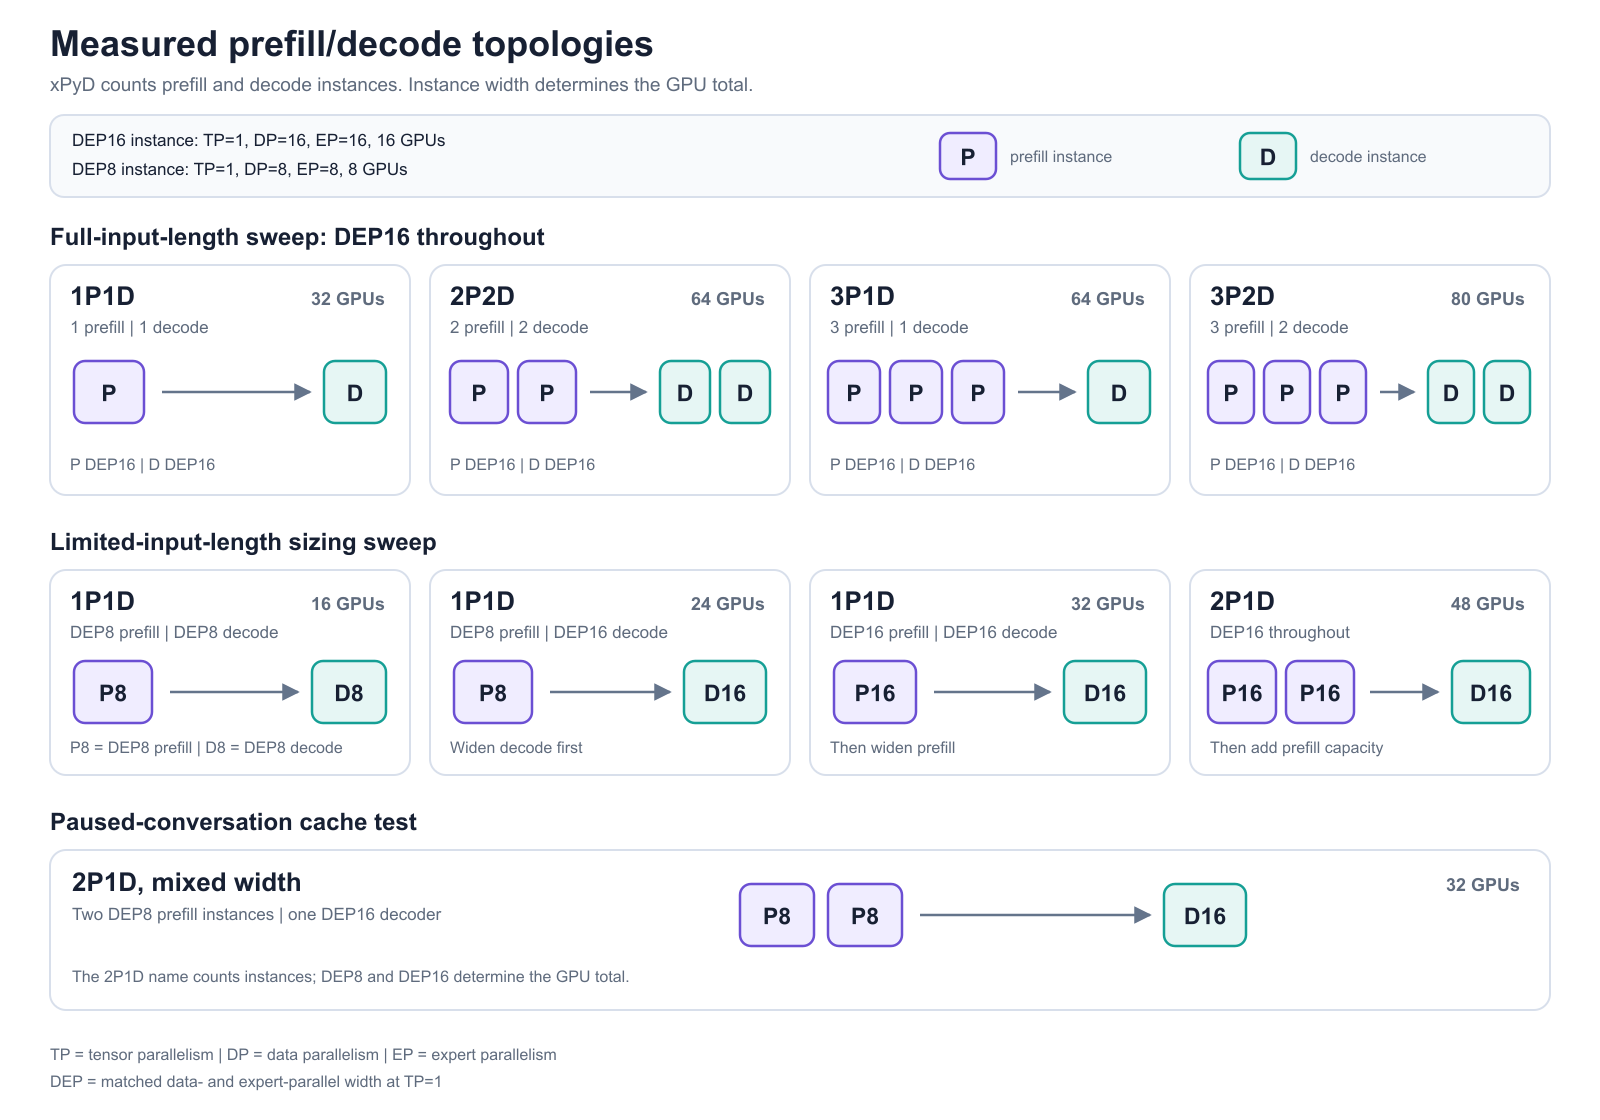
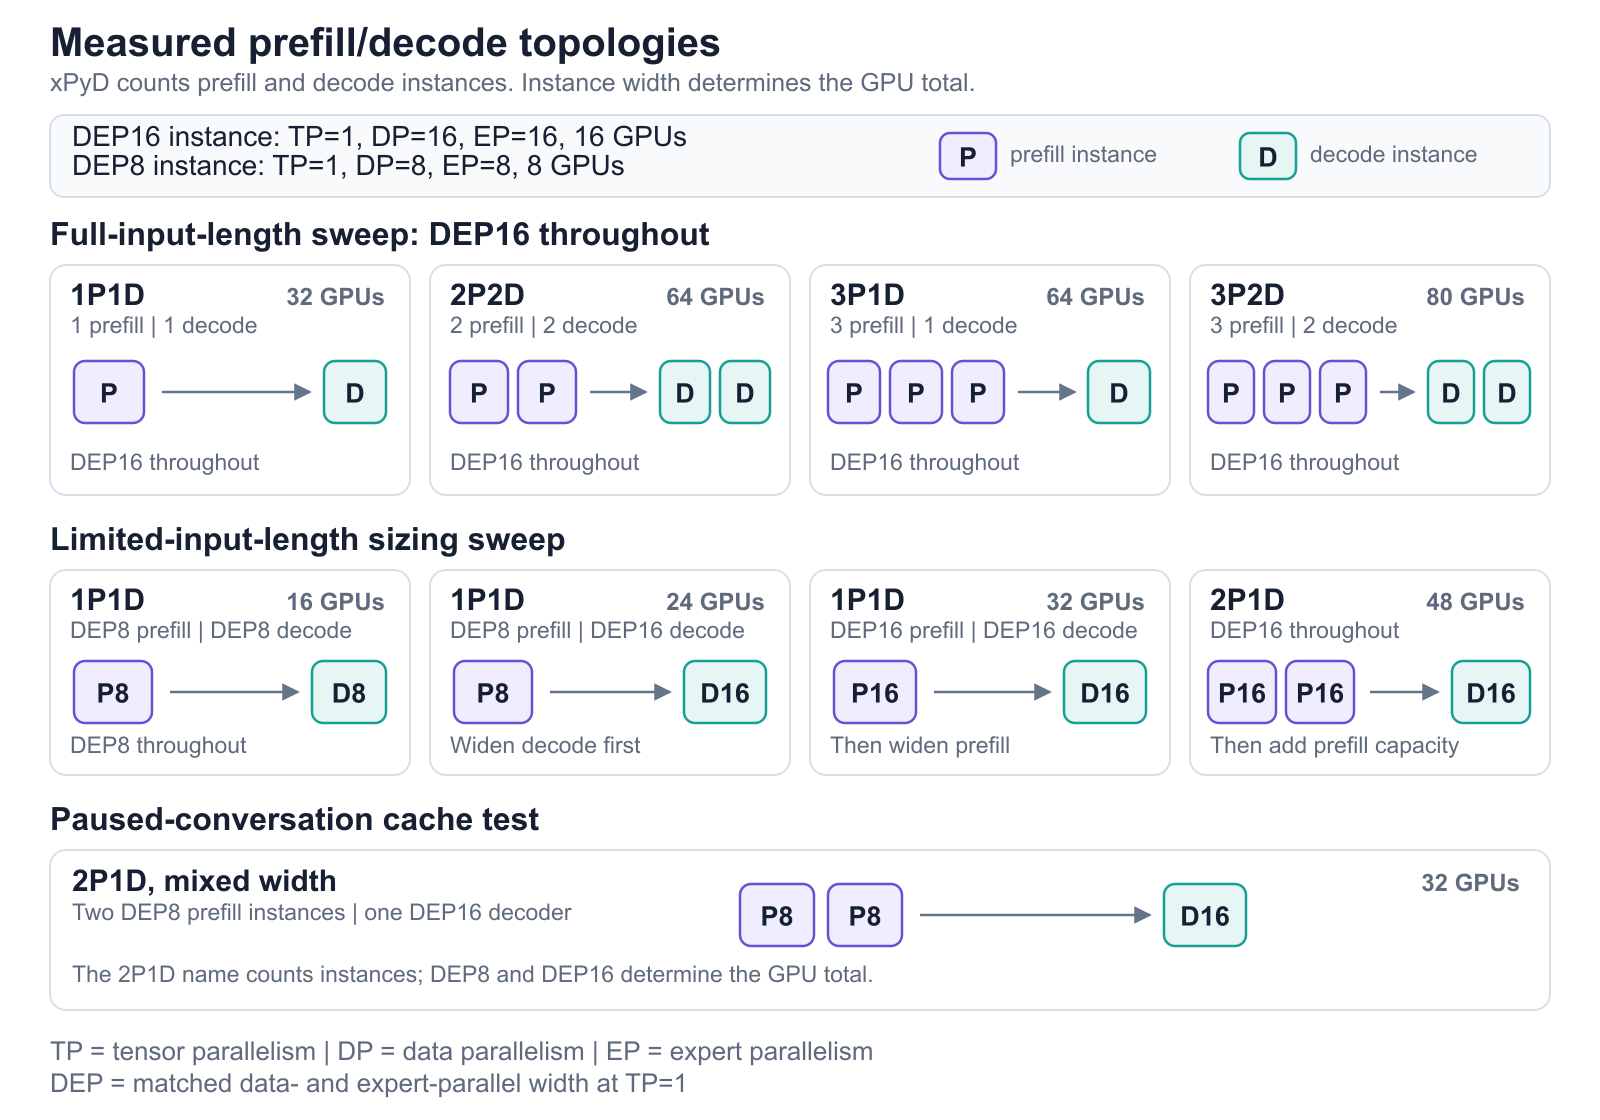
Polish GLM-5.2 blog presentation

diff --git a/src/css/custom.css b/src/css/custom.css
@@ -370,3 +370,52 @@ html:not([data-theme='dark']) .footer-socials img {
 [data-theme='dark'] .theme-doc-sidebar-menu .menu__link--sublist:not(.menu__link--active) {
   color: #f4f4f4;
 }
+
+/* GLM-5.2 blog figures: size by information density, not source aspect ratio. */
+.glm-figure {
+  width: 94%;
+  max-width: 62.5rem;
+  margin: 1.75rem auto;
+}
+
+.glm-figure--wide {
+  width: 100%;
+  max-width: 72.5rem;
+}
+
+.glm-figure--compact {
+  width: 82%;
+  max-width: 51.25rem;
+}
+
+.glm-figure img {
+  display: block;
+  width: auto;
+  max-width: 100%;
+  height: auto;
+  max-height: 40rem;
+  margin: 0 auto;
+  object-fit: contain;
+}
+
+.glm-figure figcaption {
+  direction: ltr;
+  margin-top: 0.25rem;
+  font-size: 0.8rem;
+  font-style: italic;
+  line-height: 1.4;
+  text-align: left;
+}
+
+.glm-figure figcaption > :last-child {
+  margin-bottom: 0;
+}
+
+@media (max-width: 767px) {
+  .glm-figure,
+  .glm-figure--wide,
+  .glm-figure--compact {
+    width: 100%;
+    margin: 1.25rem auto;
+  }
+}
